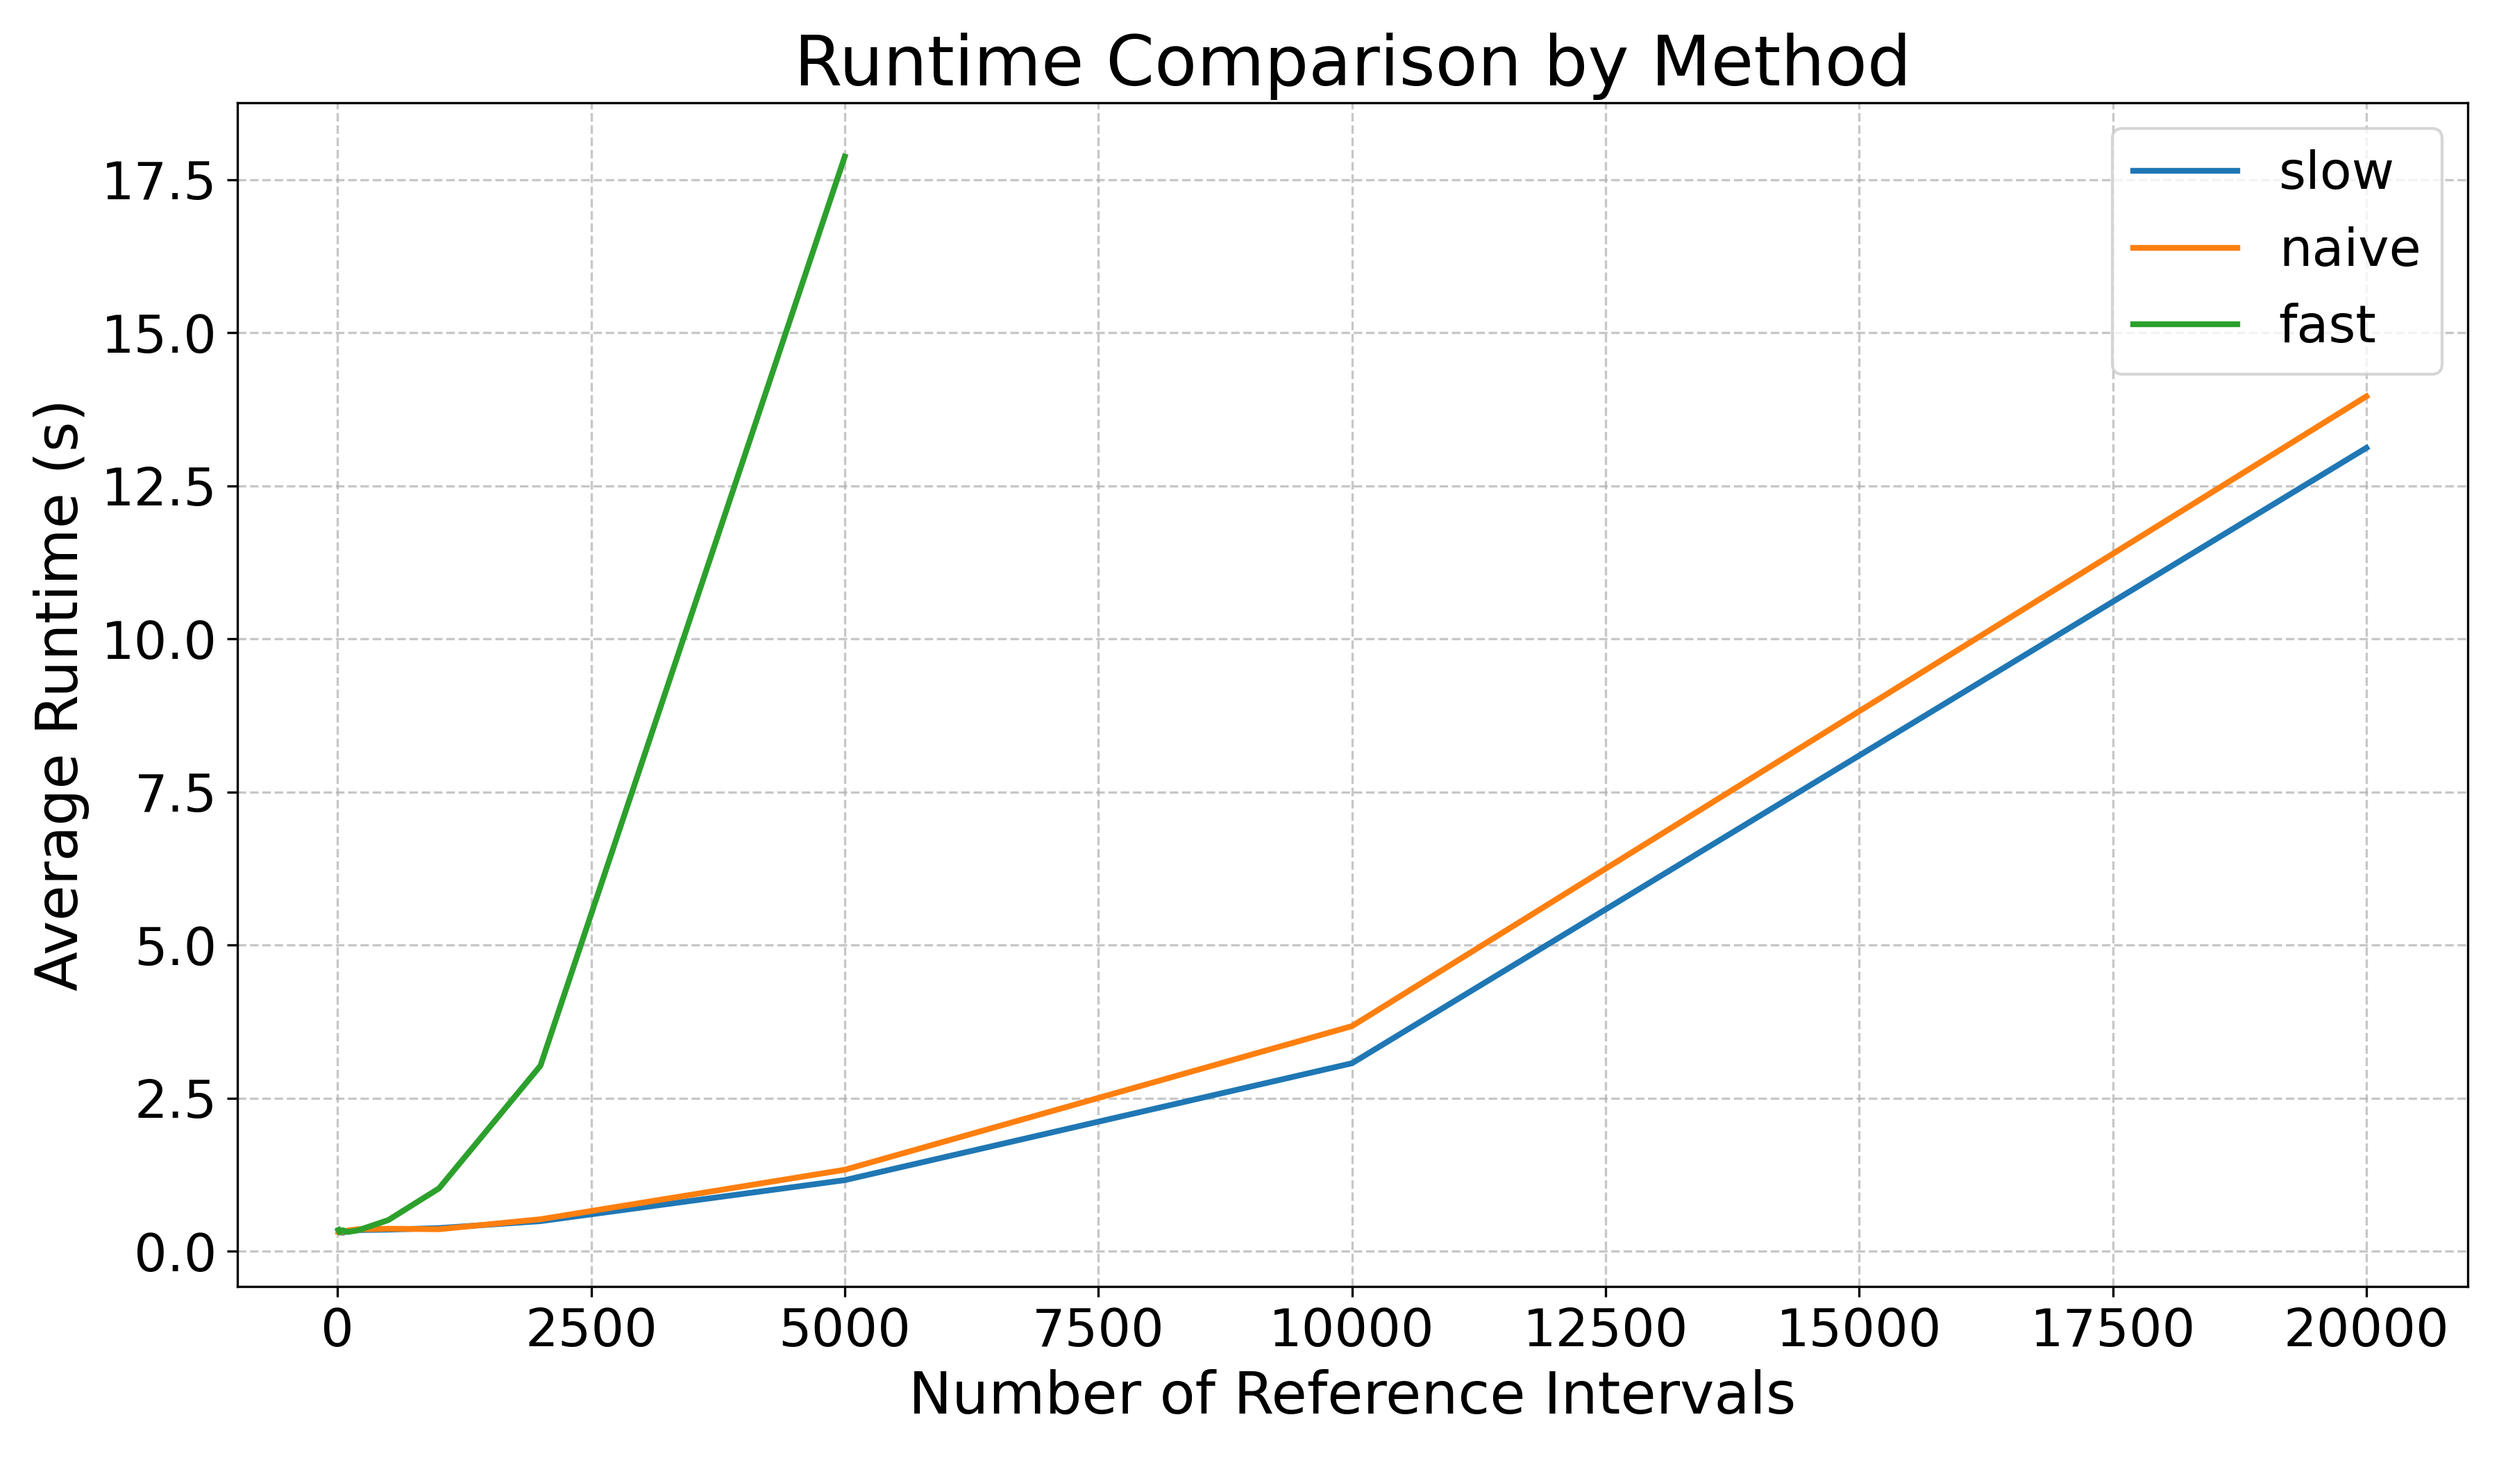
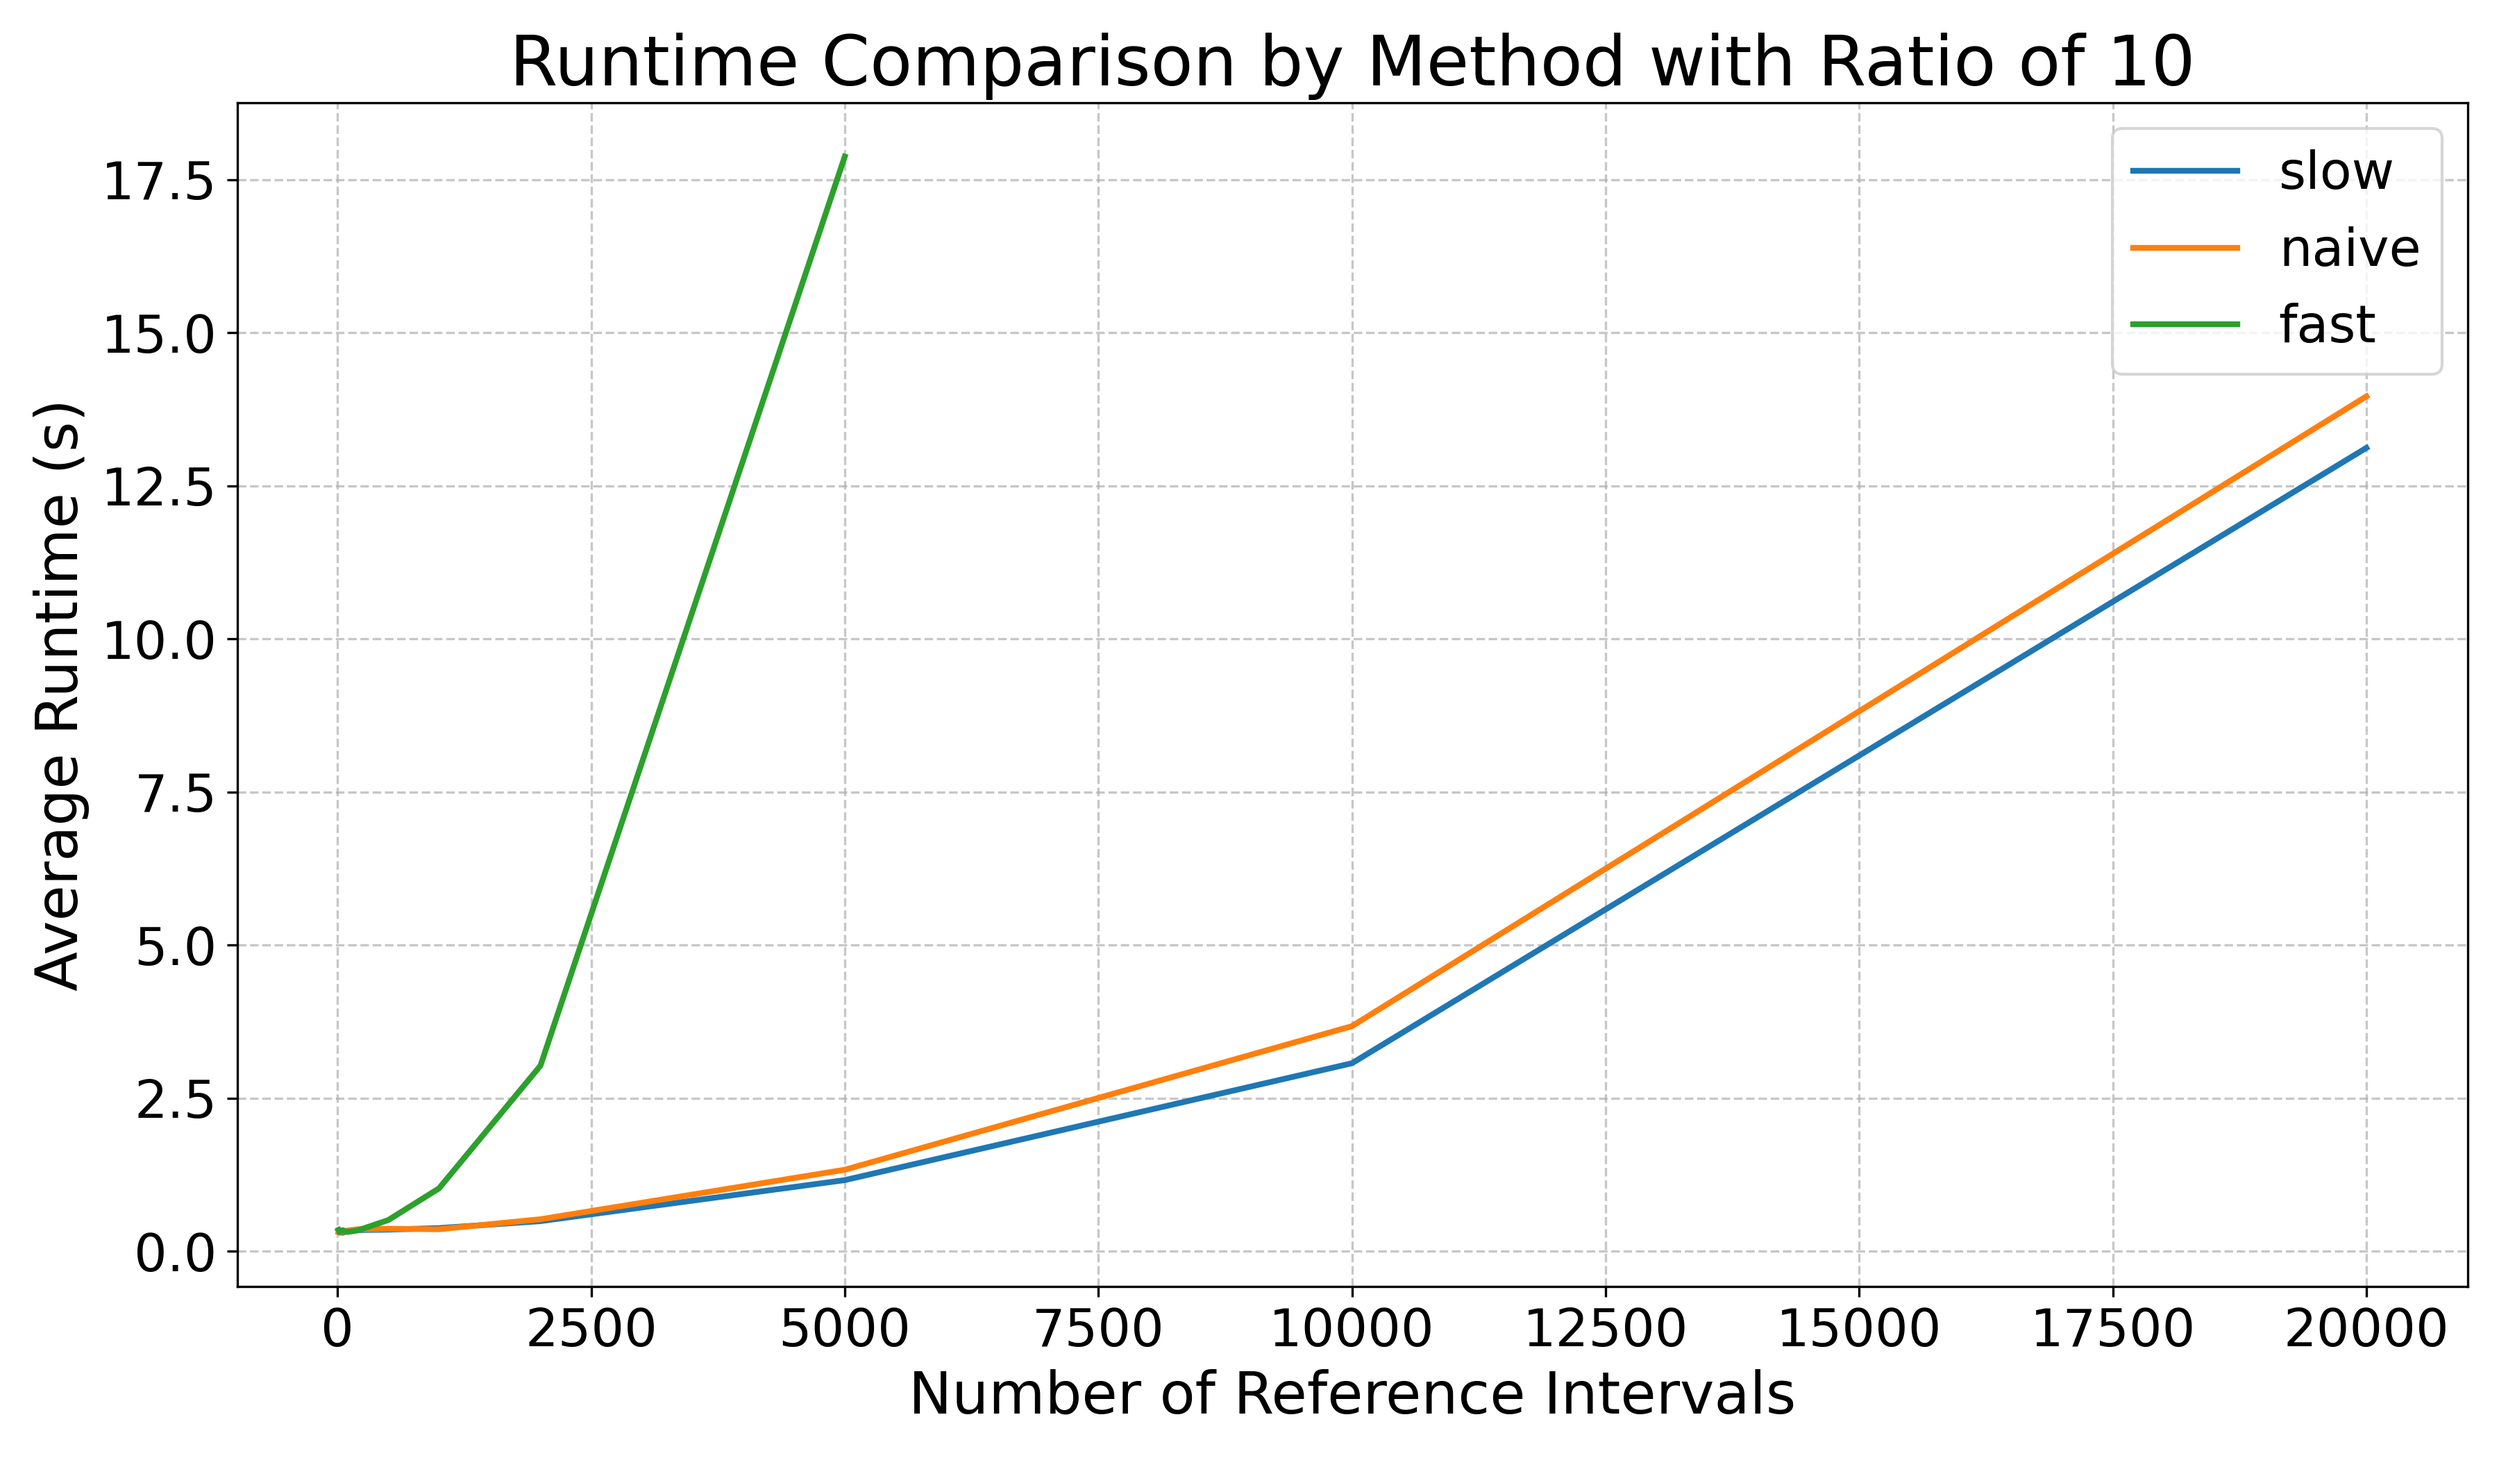
change some title of graphs

Changed region(s): [[0.1867, 0.0, 0.8711, 0.0619]]

diff --git a/01-synthetic/window_benchmark_metrics/graphing.py b/01-synthetic/window_benchmark_metrics/graphing.py
@@ -65,7 +65,7 @@ def main():
                 data,
                 y_col='time_seconds_avg',
                 y_label='Average Runtime (s)',
-                title='Runtime Comparison by Method',
+                title=f"Runtime Comparison by Method with Ratio of {step}",
                 output_file=f"3_method_runtime_comparison{"_log" if log else ""}{f"_step{step}" if step == 20 else ""}.png",
                 log=log
             )
@@ -75,7 +75,7 @@ def main():
                 data,
                 y_col='mem_mb_avg',
                 y_label='Average Memory Usage (MB)',
-                title='Memory Usage Comparison by Method',
+                title=f"Memory Usage Comparison by Method with Ratio of {step}",
                 output_file=f"3_method_memory_comparison{"_log" if log else ""}{f"_step{step}" if step == 20 else ""}.png",
                 log=log
             )

diff --git a/01-synthetic/metrics/graphing.py b/01-synthetic/metrics/graphing.py
@@ -55,7 +55,7 @@ def main():
             data,
             y_col='time_seconds_avg',
             y_label='Average Runtime (s)',
-            title='Runtime Comparison by Method',
+            title='Runtime Comparison by Software',
             output_file=f"runtime_comparison{"_log" if log else ""}.png",
             log=log
         )
@@ -65,7 +65,7 @@ def main():
             data,
             y_col='mem_mb_avg',
             y_label='Average Memory Usage (MB)',
-            title='Memory Usage Comparison by Method',
+            title='Memory Usage Comparison by Software',
             output_file=f"memory_comparison{"_log" if log else ""}.png",
             log=log
         )
